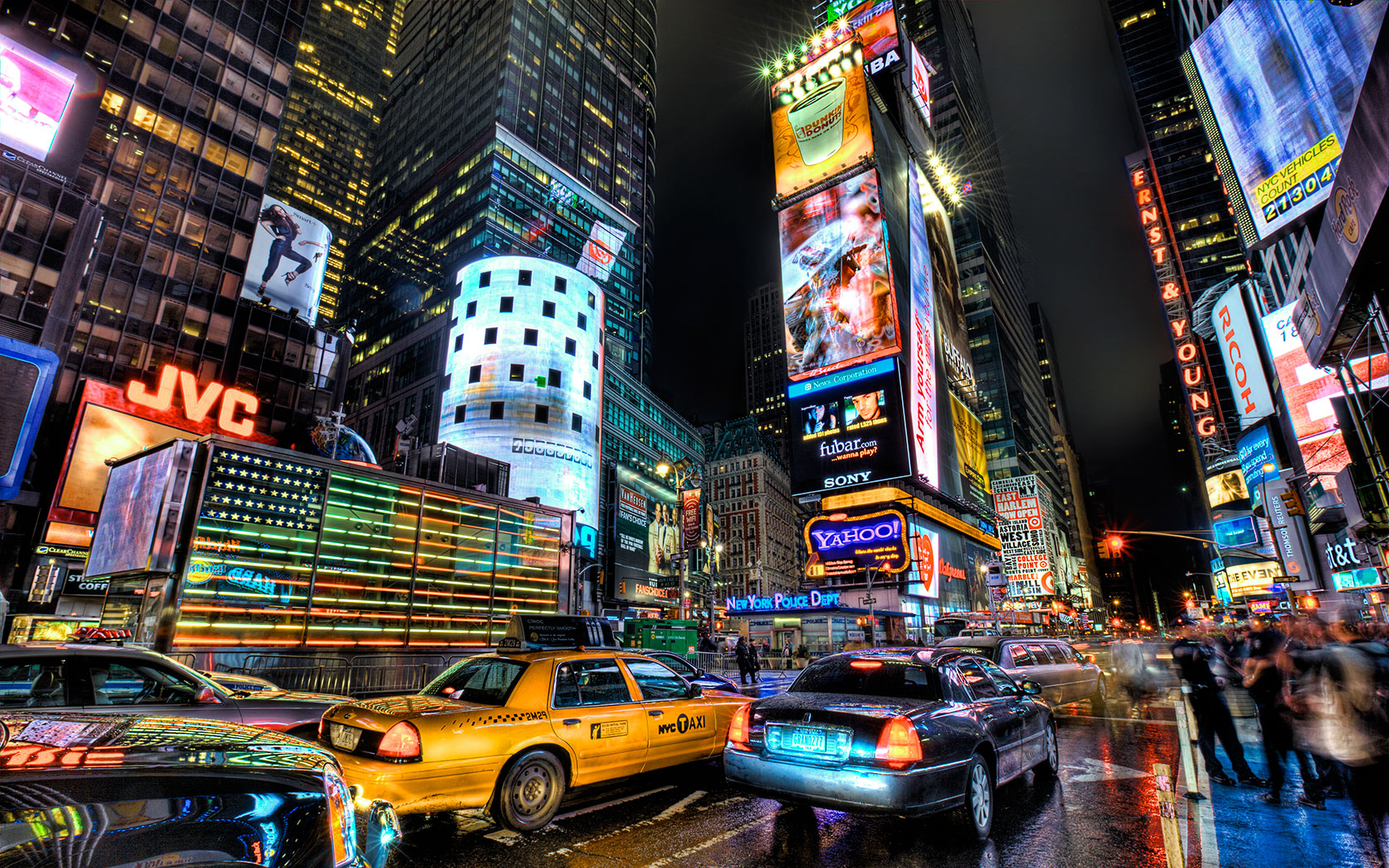
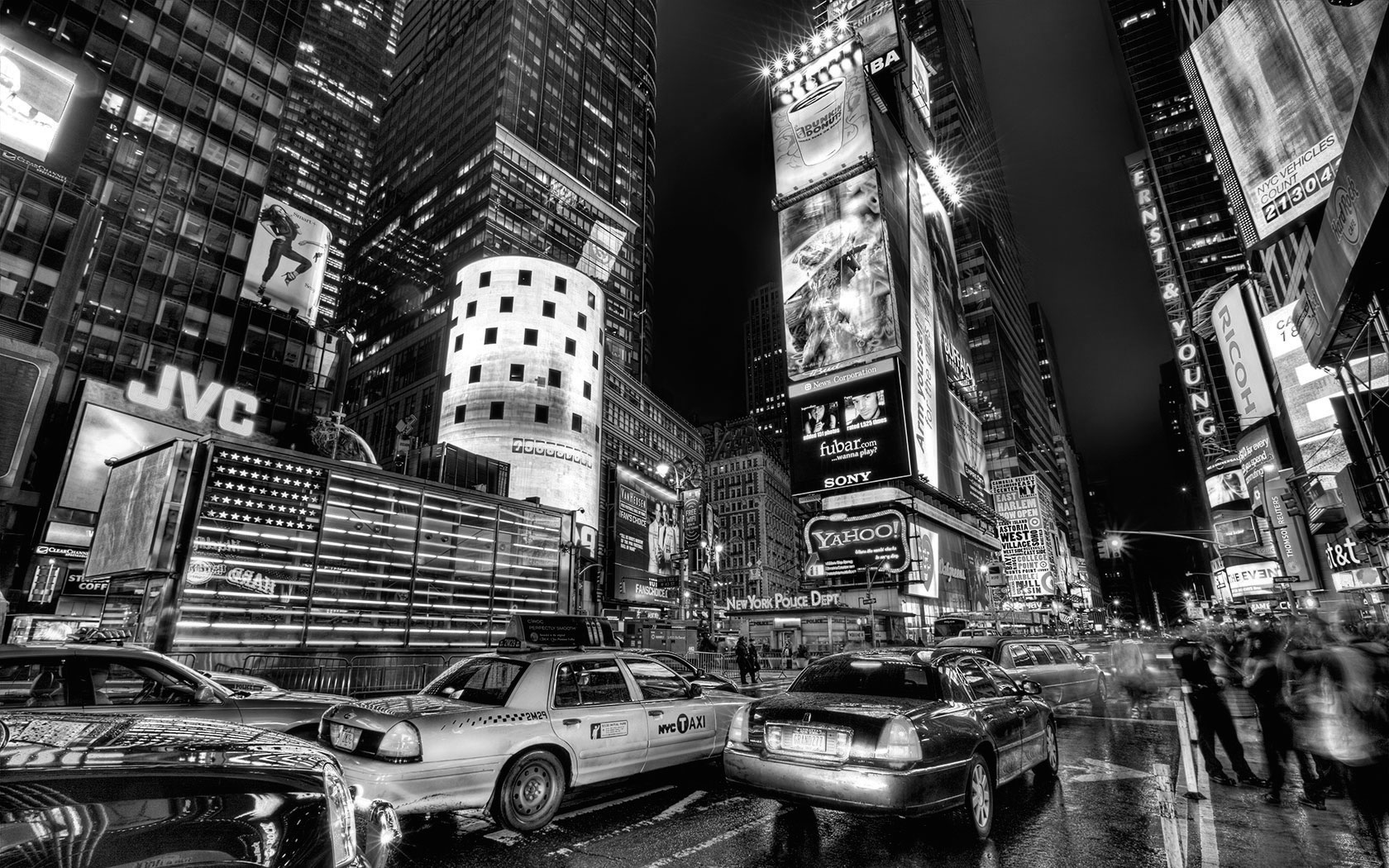
visual improvements pt1

diff --git a/public/css/main.css b/public/css/main.css
@@ -19,7 +19,7 @@ body {
     flex-direction: column;
     justify-content: flex-start;
     align-items: center;
-    background-color: #139CD3;
+    background-color: #2b2b2b;
 }
 
 header{
@@ -49,10 +49,16 @@ main{
     align-items: center;
 }
 
+
+.grayscale{
+    -webkit-filter: grayscale(100%);
+    filter: gray;
+}
+
 .moreinfocontainer{
     width: 100%;
     height:100%;
-    background-color: #0D485B;
+    background-color: #404040;
     display: flex;
     flex-direction: column;
     justify-content: center;
@@ -62,11 +68,12 @@ main{
 .moreinfoform{
     width: 90%;
     height: 90%;
-    background-color: #139CD3;
+    background-color: #2b2b2b;
     display: flex;
     flex-direction: column;
     justify-content: space-around;
     align-items: center;
+    border-radius: 5px;
 }
 
 .techinfosec{
@@ -113,7 +120,7 @@ main{
     width: 2vmax;
     height: 20vmax;
     background-color: black;
-    border-color: #0D485B;
+    border-color:  #404040;
     border-style: solid;
     border-width: 5px;
     border-top: 0;
@@ -124,19 +131,15 @@ main{
 #billboard{
     width: 88.88vmin;
     height: 50vmin;
-    border-color: #139CD3;
+    border-color:  #404040;
     border-style: solid;
     border-width: 5px;
-    background-color: black;
+    background-color:  #404040;
     display: flex;
     flex-direction: column;
     justify-content: center;
     align-items: center;
-}
-
-.static{
-    background-image: url("../img/glass.jpg");
-    background-size: cover;
+    border-radius: 5px;
 }
 
 footer{
@@ -205,6 +208,7 @@ p.abouttext{
     border-style: solid;
     border-color: white;
     border-width: 1px;
+    border-radius: 5px;
 }
 
 #filename{
@@ -221,6 +225,7 @@ p.abouttext{
     border-style: solid;
     border-color: white;
     border-width: 1px;
+    border-radius: 5px;
 }
 
 .formSlotWrapper{
@@ -268,6 +273,7 @@ p.abouttext{
     background-color: rgba(30, 52, 142, 0);
     color: white;
     font-size: 22px;
+    border-radius: 10px;
 }
 
 .mainButton:disabled{
@@ -284,7 +290,9 @@ p.abouttext{
     border-width: 1px;
     background-color: rgba(30, 52, 142, 0);
     color: white;
-    font-size: 22px;;
+    font-size: 22px;
+    border-radius: 10px;
+
 }
 
 .subinfo {
@@ -298,6 +306,7 @@ p.abouttext{
 #currimg{
     height: 100%;
     width: 100%;
+    border-radius: 5px;
 }
 
 #buy{
@@ -336,6 +345,7 @@ label{
     justify-content: center;
     align-items: center;
     font-size: 22px;
+    border-radius: 10px;
 }
 
 #twitter{

diff --git a/public/js/ui/landingUI.js b/public/js/ui/landingUI.js
@@ -1,11 +1,11 @@
 
 function installMetamaskWarning() {
     document.getElementsByTagName("body")[0].setAttribute("class", "metamaskColor")
-    document.getElementsByClassName("warningTitle")[0].firstElementChild.innerHTML = "Install Metamask"
-    document.getElementsByClassName("warning")[0].innerHTML = "For the Ethereum Billboard to work properly, you need to have Metamask. Please install it and create an account before using. If you choose to continue without Metamask, you will be able to see the billboard but not change the ad."
+    document.getElementsByClassName("warningTitle")[0].firstElementChild.innerHTML = "Install MetaMask"
+    document.getElementsByClassName("warning")[0].innerHTML = "For the Ethereum Billboard to work properly, you need to have MetaMask installed. If you choose to continue without MetaMask, you will only be able to see the billboard, but not participate"
 
     var negativemsg = document.getElementById("negativemsg")
-    negativemsg.innerHTML = "Install Metamask";
+    negativemsg.innerHTML = "Install MetaMask";
     var negativebutton = document.getElementById("negativebutton")
     negativebutton.setAttribute("onclick", "getMetamask()")
     var negativeicon = document.getElementById("negativeicon")
@@ -19,8 +19,8 @@ function installMetamaskWarning() {
 
 function unlockMetamaskWarning() {
     document.getElementsByTagName("body")[0].setAttribute("class", "metamaskColor")
-    document.getElementsByClassName("warningTitle")[0].firstElementChild.innerHTML = "Unlock Metamask"
-    document.getElementsByClassName("warning")[0].innerHTML = "For the Ethereum Billboard to work properly, you need have an account unlocked. Please create an account if you don't have one and unlock it before using. If you choose to continue without an unlocked account, you will be able to see the billboard but not change the ad."
+    document.getElementsByClassName("warningTitle")[0].firstElementChild.innerHTML = "Unlock MetaMask"
+    document.getElementsByClassName("warning")[0].innerHTML = "For the Ethereum Billboard to work properly, you need have an account unlocked. Please create an account if you don't have one and unlock it before using. If you choose to continue without an unlocked account, you will be able to see the billboard, but not participate."
 
     var negativebutton = document.getElementById("negativebutton")
     negativebutton.parentElement.removeChild(negativebutton)

diff --git a/public/main.html b/public/main.html
@@ -292,7 +292,7 @@
                             <input type="number" required min="0" value="0" step="0.000000000000000001" id="etherAmount">
                         </div>
                         <div class="formSlotWrapper">
-                            <label id="choosepic" for="nextpic">Choose Picture File &nbsp
+                            <label id="choosepic" for="nextpic">Choose Ad File &nbsp
                                 <i class="fas fa-image"></i>
                             </label>
                             <input required type="file" id="nextpic" name="image" onchange="changepic(this)" accept="image/jpeg, image/png">

diff --git a/public/index.html b/public/index.html
@@ -62,7 +62,7 @@
     <div class="warningContent">
       <p class="warning">
         I accept that the views expressed on The Ethereum Billboard are not those of its creators, but solely those of the advertisers.
-        I also accept that I'm over 18 and willing to be exposed to adult and controversial content.
+        I also accept that I'm over the age of 18 and may be exposed to adult and controversial content.
       </p>
     </div>
 

diff --git a/public/css/landing.css b/public/css/landing.css
@@ -15,8 +15,7 @@ body {
     flex-direction: column;
     justify-content: center;
     align-items: center;
-    background-color: #139CD3;
-
+    background-color: #2b2b2b;
 }
 
 .warningBox {
@@ -39,7 +38,7 @@ body {
     animation-fill-mode:forwards;
 }
 @keyframes color_change {
-	from { background-color:#139CD3; }
+	from { background-color: #2b2b2b;}
 	to { background-color: #F6851B; }
 }
 

diff --git a/public/css/spinner.css b/public/css/spinner.css
@@ -7,7 +7,7 @@
 }
 
 .spinner > div {
-  background-color: #139CD3;
+  background-color: white;
   height: 100%;
   width: 6px;
   display: inline-block;
